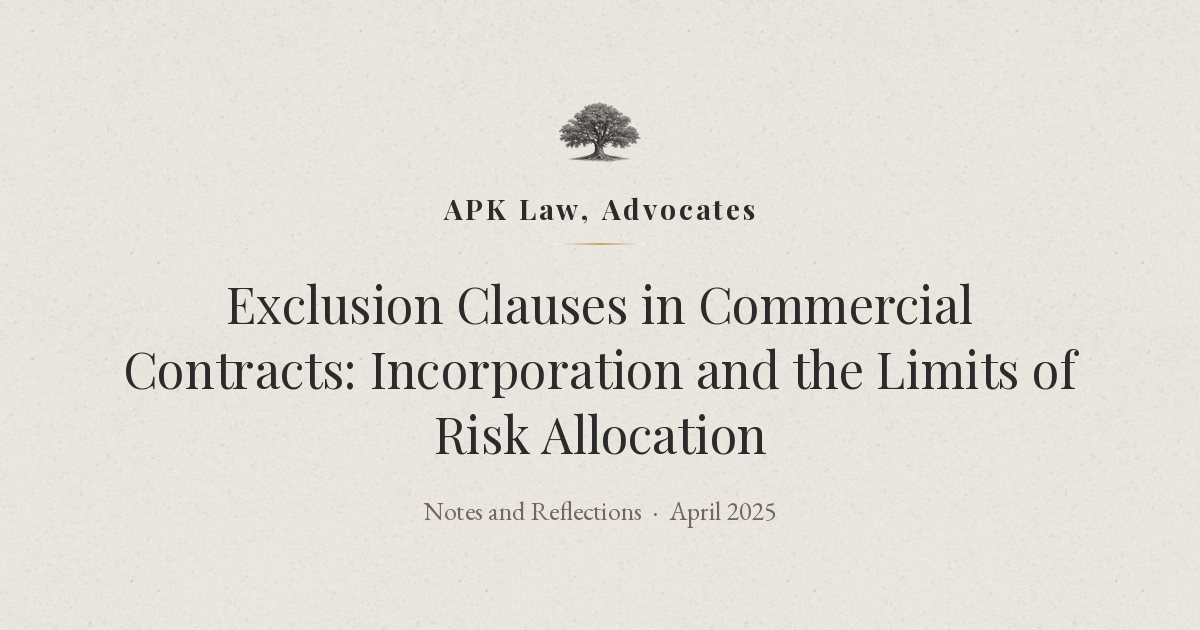
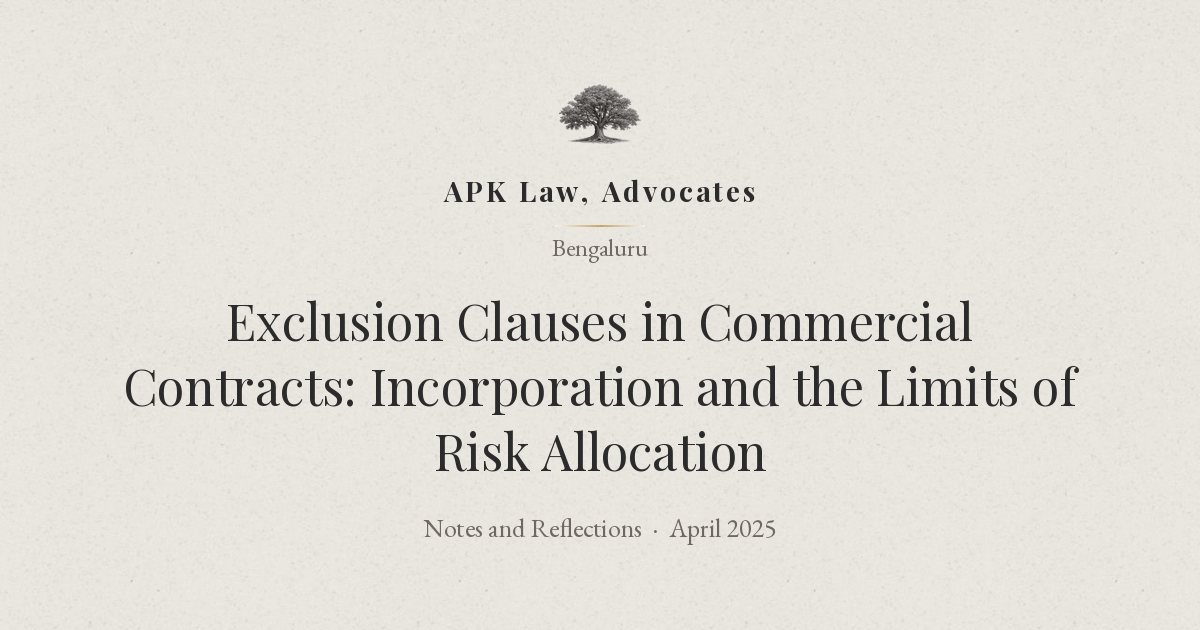
Add "Bengaluru" to the name block on every share card
make_card now draws the same name block as the home page: logo, name,
gold rule, then "Bengaluru". All 21 article cards and the site's
default card are remade. CARD_VERSION in update_site.py remakes every
card when the design changes. CLAUDE.md now says the name block is the
same on the home page, the 404 page and every share card.

Claude-Session: https://claude.ai/code/session_012MTSjFJ95bZKztJcRNotNE

diff --git a/.github/site-tools/update_site.py b/.github/site-tools/update_site.py
@@ -7,7 +7,9 @@ For every page in articles/ (other than index.html) it:
     (delete a card to have it made again, e.g. after changing a title);
   - adds any missing tags: description, Open Graph, share image, canonical
     link, feed link and schema.org Article data.
-Tags already present are left exactly as they are. It also removes any
+Tags already present are left exactly as they are. When CARD_VERSION below
+is raised (after a change to the card's design, such as the name block), every
+card, including the site's own card assets/share/default.jpg, is made again. It also removes any
 Google Fonts link (the fonts are served from this site) and points the
 stylesheet link at the version the home page uses. It then rewrites
 sitemap.xml from the home page, the archive and every article, and feed.xml
@@ -29,6 +31,9 @@ from PIL import Image, ImageDraw, ImageFont
 
 SITE = "https://apklaw.in"
 NAV_VERSION = 2
+# Raise by one after changing make_card, so every share card is made again.
+CARD_VERSION = 2
+CARD_STAMP = "assets/share/.card-version"
 HERE = os.path.dirname(os.path.abspath(__file__))
 FONTS = os.path.join(HERE, "fonts")
 
@@ -81,7 +86,8 @@ def wrap(d, text, f, max_w):
 
 
 def make_card(title, subtitle, out):
-    """Logo, firm name, gold rule, title and subtitle as one centred block."""
+    """The name block as on the home page (logo, firm name, gold rule,
+    "Bengaluru"), then the title and subtitle, as one centred block."""
     im = paper()
     d = ImageDraw.Draw(im)
 
@@ -92,6 +98,7 @@ def make_card(title, subtitle, out):
 
     f_name = font("PlayfairDisplay-Bold.ttf", 28)
     f_sub = font("EBGaramond-Regular.ttf", 26)
+    f_place = font("EBGaramond-Regular.ttf", 24)
     size = 50
     while True:
         f_title = font("PlayfairDisplay-Regular.ttf", size)
@@ -108,12 +115,13 @@ def make_card(title, subtitle, out):
         b = box(f)
         return b[3] - b[1]
 
-    gap_logo, gap_rule, gap_title, gap_sub = 38, 18, 44, 40
+    gap_logo, gap_rule, gap_place, gap_title, gap_sub = 38, 18, 14, 42, 40
     name_h = height(f_name)
+    place_h = height(f_place)
     title_h = line_h * (len(lines) - 1) + height(f_title)
-    sub_h = height(f_sub)
-    total = (logo.height + gap_logo + name_h + gap_rule + 1 + gap_title
-             + title_h + gap_sub + sub_h)
+    sub_h = height(f_sub) if subtitle else 0
+    total = (logo.height + gap_logo + name_h + gap_rule + 1 + gap_place + place_h
+             + gap_title + title_h + (gap_sub + sub_h if subtitle else 0))
     y = (H - total) // 2
 
     im.paste(logo, ((W - lw) // 2, y), logo)
@@ -128,14 +136,18 @@ def make_card(title, subtitle, out):
     y += name_h + gap_rule
 
     gold_rule(d, W // 2, y)
-    y += 1 + gap_title
+    y += 1 + gap_place
+
+    d.text((W / 2, y - box(f_place)[1]), "Bengaluru", font=f_place, fill=MUTED, anchor="ms")
+    y += place_h + gap_title
 
     for i, line in enumerate(lines):
         d.text((W / 2, y - box(f_title)[1] + i * line_h), line,
                font=f_title, fill=INK, anchor="ms")
     y += title_h + gap_sub
 
-    d.text((W / 2, y - box(f_sub)[1]), subtitle, font=f_sub, fill=MUTED, anchor="ms")
+    if subtitle:
+        d.text((W / 2, y - box(f_sub)[1]), subtitle, font=f_sub, fill=MUTED, anchor="ms")
     im.save(out, quality=84, optimize=True, progressive=True)
 
 
@@ -176,7 +188,7 @@ def update_article(path):
     published = f"{d.group(2)}-{MONTHS[d.group(1)]:02d}"
 
     card = f"assets/share/{slug}.jpg"
-    if not os.path.exists(card):
+    if not os.path.exists(card) or remake_cards:
         os.makedirs("assets/share", exist_ok=True)
         make_card(title, "Notes and Reflections  ·  " + month_year, card)
         print(f"made {card}")
@@ -348,7 +360,19 @@ def update_footer_year():
             print(f"updated footer year in {path}")
 
 
+def card_version():
+    try:
+        return int(open(CARD_STAMP).read().strip())
+    except (OSError, ValueError):
+        return 0
+
+
 if __name__ == "__main__":
+    remake_cards = card_version() != CARD_VERSION
+    if remake_cards or not os.path.exists("assets/share/default.jpg"):
+        os.makedirs("assets/share", exist_ok=True)
+        make_card("Notes and Reflections", "", "assets/share/default.jpg")
+        print("made assets/share/default.jpg")
     articles = sorted(p for p in glob.glob("articles/*.html")
                       if os.path.basename(p) != "index.html")
     for p in articles:
@@ -356,3 +380,5 @@ if __name__ == "__main__":
     update_footer_year()
     write_sitemap(articles)
     write_feed()
+    if remake_cards:
+        open(CARD_STAMP, "w").write(f"{CARD_VERSION}\n")

diff --git a/.claude/CLAUDE.md b/.claude/CLAUDE.md
@@ -258,10 +258,16 @@ not installed, follow the README's one-time setup; don't skip the check.
   stay plain text. The owner tried "§" section links and linked footnotes and
   had them removed as out of keeping with the site; don't add them, or
   anything like them, again.
-- **The name block** on the home page and the 404 page is the tree logo,
-  "APK Law, Advocates" with its gold rule, and "Bengaluru" beneath in ordinary
-  lettering (`.site-place`, grey), as on a letterhead. The owner chose ordinary
-  lettering over capitals.
+- **The name block** is the tree logo, "APK Law, Advocates" with its gold
+  rule, and "Bengaluru" beneath in ordinary lettering (`.site-place`, grey), as
+  on a letterhead. The owner chose ordinary lettering over capitals, and close
+  spacing around "Bengaluru". It is the same everywhere the logo and name
+  appear together: the home page, the 404 page and every share card (each
+  article's card and `assets/share/default.jpg`, all drawn by `make_card` in
+  `update_site.py`). Any change to the name block is made in all of these
+  places in the same pull request, without the owner having to ask for each.
+  After changing `make_card`, raise `CARD_VERSION` in `update_site.py` and run
+  it; it makes every card again, the default card included.
 - **The home page** (`index.html`, `body class="home"`):
   - Phones and small tablets (under 900px): one column, in the order Notice,
     Notes and Reflections, The Practice.

diff --git a/.github/site-tools/README.md b/.github/site-tools/README.md
@@ -4,7 +4,7 @@ Tools for maintaining apklaw.in. None of this is published on the website.
 
 | File | What it does | Needs |
 |---|---|---|
-| `update_site.py` | Makes share cards; adds missing search and sharing tags; rebuilds `sitemap.xml` and the RSS feed `feed.xml`. Runs automatically on GitHub after each change to an article. | Python 3, Pillow |
+| `update_site.py` | Makes share cards (all of them again when `CARD_VERSION` is raised); adds missing search and sharing tags; rebuilds `sitemap.xml` and the RSS feed `feed.xml`. Runs automatically on GitHub after each change to an article. | Python 3, Pillow |
 | `check_site.py` | Checks the files: archive list, sitemap, feed, links, tags, share cards, stylesheet version, no third-party sites, Notice wording unchanged. | Python 3 |
 | `check_live.py` | Checks the live site at apklaw.in: every page answers over https, http forwards to https, the certificate is valid, and the live site has the latest version. | Python 3 |
 | `check_pages.js` | Checks the pages in a real browser at laptop and phone size, and that the home page fits the window. Can save preview screenshots. | Node.js, Playwright |
